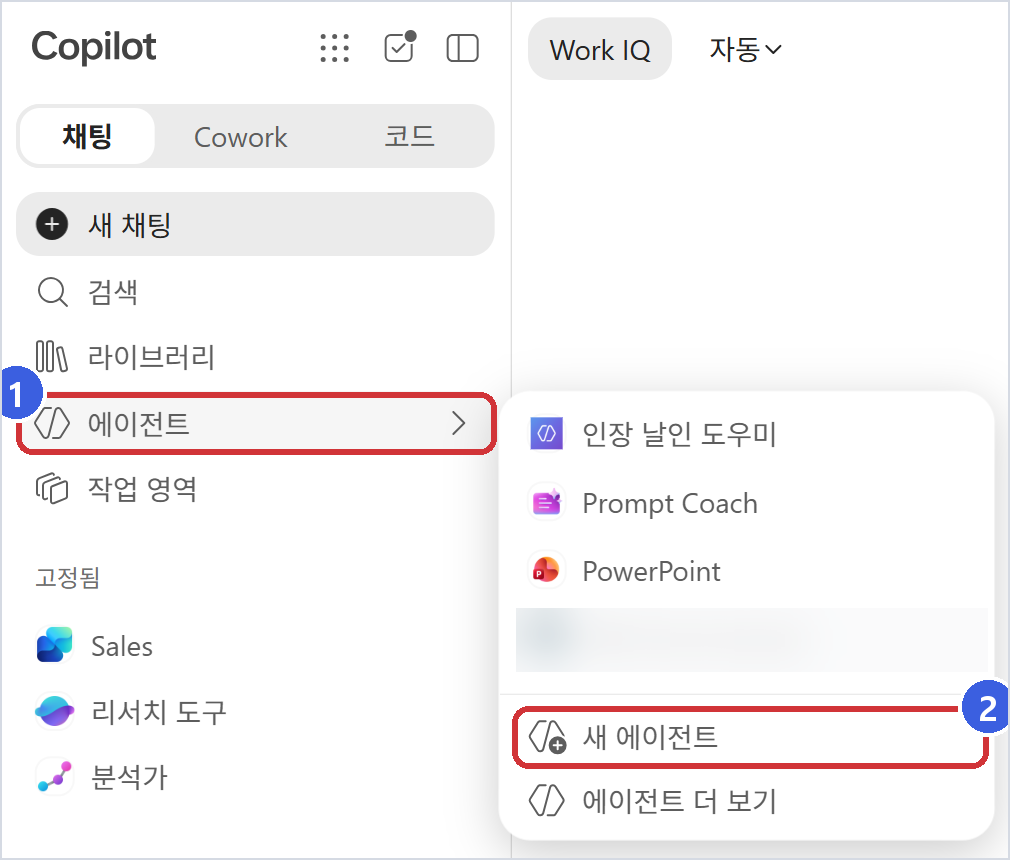
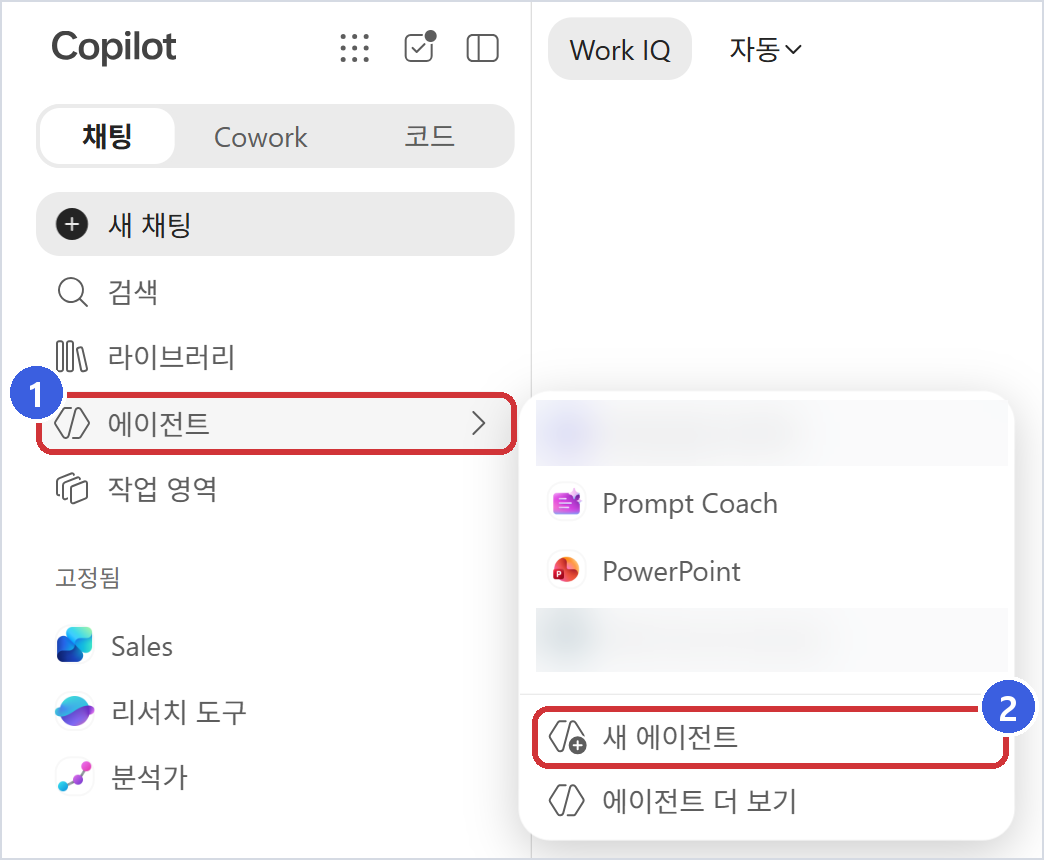
Lab 5 안내 작성 방법 절과 문맥 정리 (#40)
- 안내 구성 절 제목을 '안내(Instructions) 작성 방법'으로 바꾸고 네 부분마다 무엇을 적는지 설명했습니다.
- 자료 밖 질문은 '넘긴다' 대신 담당 부서에 확인하도록 안내한다고 고쳤습니다.
- 테스트 질문 세트는 지식으로 올리지 않는다고 적고 웹 검색 스위치 위치를 바로잡았습니다.
- 6단계 테스트를 카드 네 개로 정리하고 점검표를 기대 동작 기준으로 맞췄습니다.
- 테스트 세트의 C1 통과 기준과 B6 근거 표기를 고치고 실제 규정 전환 절차에 설명 문구 정리를 더했습니다.
- 1단계 이미지에서 잘린 번호 배지를 살리고 아직 만들기 전인 에이전트 이름을 가렸습니다.

diff --git a/templates/company-seal-agent-builder/index.html b/templates/company-seal-agent-builder/index.html
@@ -676,9 +676,9 @@
               맡기세요
             </h1>
             <p class="lead">
-              날인을 신청하려면 무엇을 준비해야 하는지, 누구 승인을 받아야 하는지 같은 질문이 담당 부서에 거듭 들어옵니다.
+              날인을 신청하려면 무엇을 준비해야 하는지, 누구의 승인을 받아야 하는지 같은 질문이 담당 부서에 거듭 들어옵니다.
               이 실습에서는 인장 관리 규정, 날인 신청 FAQ, 날인 신청서 양식 세 파일을 지식으로 올립니다. 규정에 있는 내용은 근거 조항과 함께
-              안내하고 규정에 없는 내용은 담당 부서로 넘기는 에이전트를 만듭니다. 앞선 실습과 달리 <strong>내 PC의 파일을 직접 올려</strong> 지식으로 씁니다.
+              알려 주고 규정에 없는 내용은 담당 부서에 확인하도록 안내하는 에이전트를 만듭니다. 앞선 실습과 달리 이번에는 <strong>내 PC의 파일을 직접 올립니다</strong>.
             </p>
 
             <div class="hero-meta">
@@ -701,18 +701,18 @@
         <header class="section-head">
           <span class="eyebrow">개요</span>
           <h2>규정 안에서만 답하는 셀프서비스 에이전트</h2>
-          <p class="lead">사내 규정을 안내하는 에이전트는 많이 아는 것보다 아는 범위를 지키는 쪽이 중요합니다. 이 에이전트는 올린 세 파일만 근거로 삼고 답마다 근거 조항을 붙입니다. 자료에 없는 질문에는 추측해서 답하지 않습니다.</p>
+          <p class="lead">인장 날인 도우미는 올린 세 파일만 근거로 삼고 답마다 근거 조항을 붙입니다. 자료에 없는 질문에는 추측해서 답하지 않습니다.</p>
         </header>
 
         <div class="features-grid">
           <article class="feature">
             <div class="feature-icon" aria-hidden="true">📑</div>
             <h3>근거 조항을 붙입니다</h3>
-            <p>답 끝에 '인장 관리 규정 제8조', 'FAQ Q3'처럼 근거를 적습니다. 담당자가 원문을 바로 찾아 확인할 수 있습니다.</p>
+            <p>답 끝에 '인장 관리 규정 제8조', 'FAQ Q3'처럼 근거를 적습니다. 질문한 사람이 원문을 바로 찾아 확인할 수 있습니다.</p>
           </article>
           <article class="feature">
             <div class="feature-icon" aria-hidden="true">🚧</div>
-            <h3>모르는 질문은 넘깁니다</h3>
+            <h3>모르면 담당 부서로 안내합니다</h3>
             <p>해외 공증이나 전자계약처럼 자료에 없는 질문에는 확인되지 않는다고 답하고 담당 부서에 확인하라고 안내합니다.</p>
           </article>
           <article class="feature">
@@ -723,7 +723,7 @@
         </div>
 
         <div class="requirements-note">
-          <strong>이럴 때 씁니다</strong>
+          <strong>활용 예</strong>
           <span>날인 신청 안내</span><span class="sep">·</span>
           <span>사내 규정 문의</span><span class="sep">·</span>
           <span>신청서 작성 도움</span><span class="sep">·</span>
@@ -753,30 +753,30 @@
       <div class="container">
         <header class="section-head">
           <span class="eyebrow">안내 구성</span>
-          <h2>안내는 네 부분으로 씁니다</h2>
-          <p class="lead">안내(Instructions)를 역할, 근거 자료, 답하는 방법, 하지 말아야 할 일로 나눴습니다. 다른 규정 안내 에이전트를 만들 때도 이 네 부분의 내용만 바꾸면 됩니다.</p>
+          <h2>안내(Instructions) 작성 방법</h2>
+          <p class="lead">이 실습의 안내는 역할, 근거 자료, 답하는 방법, 하지 말아야 할 일 네 부분으로 나뉩니다. 다른 규정 안내 에이전트를 만들 때도 네 부분은 그대로 두고 부분마다 내용만 바꾸면 됩니다.</p>
         </header>
 
         <ol class="steps">
           <li>
             <span class="step-num">1</span>
             <h3>역할</h3>
-            <p>누구를 어떻게 돕는지 한 문장으로 정합니다. 여기서는 <strong>날인 신청 전에 절차와 서류를 확인</strong>하도록 돕는 안내 에이전트입니다.</p>
+            <p>에이전트가 누구를 어떻게 돕는지 한 문장으로 적습니다. 이 실습에서는 <strong>구성원이 날인을 신청하기 전에 절차와 준비 서류를 확인하도록 돕는</strong> 안내 에이전트로 정했습니다.</p>
           </li>
           <li>
             <span class="step-num">2</span>
             <h3>근거 자료</h3>
-            <p>지식에 올린 <strong>세 파일만</strong> 근거로 삼게 합니다. 교육용 가상 자료라는 사실도 첫 답변에서 알리게 합니다.</p>
+            <p>어떤 자료를 근거로 답할지 정합니다. 지식에 올린 <strong>세 파일만</strong> 근거로 삼게 하고 교육용 가상 자료라는 사실은 첫 답변에서 알리게 했습니다.</p>
           </li>
           <li>
             <span class="step-num">3</span>
             <h3>답하는 방법</h3>
-            <p><strong>한 줄 결론, 준비 서류, 신청 순서, 주의할 점, 근거</strong> 순서로 답합니다. 문서 종류를 알 수 없을 때만 필요한 정보를 한 가지씩 묻습니다.</p>
+            <p>답의 순서와 형식을 정합니다. <strong>한 줄 결론, 준비 서류, 신청 순서, 주의할 점, 근거</strong> 순서로 답하게 하고 문서 종류를 알 수 없을 때만 필요한 정보를 한 가지씩 묻도록 했습니다.</p>
           </li>
           <li>
             <span class="step-num">4</span>
             <h3>하지 말아야 할 일</h3>
-            <p>자료 밖 내용은 추측하지 않고 <strong>담당 부서 확인</strong>으로 넘깁니다. 승인이나 접수를 대신하지 않고 담당자 이름이나 링크도 지어내지 않습니다.</p>
+            <p>에이전트가 하면 안 되는 일을 적습니다. 자료 밖 내용은 추측하지 않고 <strong>담당 부서에 확인</strong>하라고 답하게 했습니다. 승인이나 접수를 대신하는 일과 담당자 이름, 링크를 지어내는 일도 막았습니다.</p>
           </li>
         </ol>
       </div>
@@ -788,7 +788,7 @@
         <header class="section-head">
           <span class="eyebrow">Hands-on Lab</span>
           <h2>인장 날인 도우미 만들기</h2>
-          <p class="lead">실습 파일 세 개를 내려받은 뒤 여덟 단계로 만듭니다. 붙여넣을 문구에는 단계마다 복사 버튼이 있습니다.</p>
+          <p class="lead">실습 파일을 내려받은 뒤 여덟 단계로 만듭니다. 붙여넣을 문구마다 복사 버튼이 있습니다.</p>
         </header>
 
         <!-- Before you start -->
@@ -805,13 +805,13 @@
             </tr>
             <tr>
               <th>실습 파일</th>
-              <td>아래 파일을 내 PC에 저장해 둡니다. 파일 이름은 바꾸지 않습니다.</td>
+              <td>아래 네 파일을 내 PC에 저장해 둡니다. 1~3번은 4단계에서 지식으로 올리고 테스트 질문 세트는 결과를 적을 때만 엽니다. 파일 이름은 바꾸지 않습니다.</td>
             </tr>
           </table>
           <ul class="download-list"><li><a href="files/1_인장 관리 규정(교육용 가상).docx" download><span class="k-icon" aria-hidden="true">📄</span><span>1_인장 관리 규정(교육용 가상).docx<small>제1~18조와 별표 2개</small></span></a></li><li><a href="files/2_날인 신청 FAQ(교육용 가상).docx" download><span class="k-icon" aria-hidden="true">📄</span><span>2_날인 신청 FAQ(교육용 가상).docx<small>자주 묻는 질문 17개</small></span></a></li><li><a href="files/3_날인 신청서 양식(교육용 가상).docx" download><span class="k-icon" aria-hidden="true">📄</span><span>3_날인 신청서 양식(교육용 가상).docx<small>날인 신청서, 인장 반출 신청서와 작성 요령</small></span></a></li><li><a href="files/인장 날인 도우미 테스트 질문 세트.docx" download><span class="k-icon" aria-hidden="true">📄</span><span>인장 날인 도우미 테스트 질문 세트.docx<small>질문 19개와 통과 기준</small></span></a></li>
           </ul>
           <p class="lab-desc" style="margin: 16px 0 0;">
-            <strong>실습 파일은 교육용 가상 자료입니다.</strong> 세 파일의 부서명, 기한, 금액 기준, 양식은 모두 실습용으로 정했습니다.
+            <strong>실습 파일은 교육용 가상 자료입니다.</strong> 1~3번 파일의 부서명, 기한, 금액 기준, 양식은 모두 실습용으로 정했습니다.
             특정 회사의 실제 규정이 아닙니다. 실제 규정으로 바꾸는 방법은 맨 아래 '더 해보기'에 있습니다.
           </p>
         </div>
@@ -824,10 +824,10 @@
           </h3>
           <p class="lab-desc">
             웹 브라우저에서 <a href="https://m365.cloud.microsoft/chat/" target="_blank" rel="noopener" style="color: var(--blue); font-weight: 600;">m365.cloud.microsoft/chat</a>에 회사 계정으로 접속합니다.
-            왼쪽 사이드바에서 ① <strong>에이전트 및 기술</strong>(화면에 따라 <strong>에이전트</strong>)를 누르고 ② <strong>새 에이전트</strong>를 고릅니다.
+            왼쪽 사이드바에서 ① <strong>에이전트 및 기술</strong>(화면에 따라 <strong>에이전트</strong>)을 누르고 ② <strong>새 에이전트</strong>를 고릅니다.
           </p>
 
-          <img src="images/step1-agents-menu.png" alt="Copilot 왼쪽 사이드바에서 에이전트 메뉴를 열고 새 에이전트를 고르는 화면. 다른 에이전트 이름 하나는 가렸습니다." class="lab-image" style="width: auto; max-width: min(100%, 505px); display: block; margin: 0 auto 20px;" />
+          <img src="images/step1-agents-menu.png" alt="Copilot 왼쪽 사이드바에서 에이전트 메뉴를 열고 새 에이전트를 고르는 화면. 목록의 에이전트 이름 두 개는 가렸습니다." class="lab-image" style="width: auto; max-width: min(100%, 522px); display: block; margin: 0 auto 20px;" />
 
           <p class="lab-desc">
             만들려는 에이전트를 설명하라는 화면이 뜨면 오른쪽 위 ③ <strong>건너뛰기</strong>를 눌러 구성 화면으로 바로 들어갑니다.
@@ -872,7 +872,7 @@
           </h3>
           <p class="lab-desc">
             이 단계가 제일 중요합니다. 아래 안내를 통째로 복사해 <strong>안내</strong> 칸에 붙여넣으세요.
-            역할, 근거 자료, 답하는 방법, 하지 말아야 할 일이 한 덩어리로 들어 있습니다.
+            역할, 근거 자료, 답하는 방법, 하지 말아야 할 일 네 부분이 모두 들어 있습니다.
             아래 화면은 ① 이름, ② 설명, ③ 안내를 모두 채운 모습입니다.
           </p>
 
@@ -922,14 +922,14 @@
           </h3>
           <p class="lab-desc">
             안내 아래 <strong>Agents &amp; Skills</strong>(화면에 따라 <strong>기술</strong>) 칸은 비워 두고 <strong>지식</strong>으로 내려갑니다.
-            ① <strong>지식 추가</strong>를 누르고 검색 상자 오른쪽 ② 클립 아이콘(<strong>디바이스에서 업로드</strong>)으로 실습 파일 세 개를 한꺼번에 고릅니다.
+            ① <strong>지식 추가</strong>를 누르고 검색 상자 오른쪽 ② 클립 아이콘(<strong>디바이스에서 업로드</strong>)으로 1~3번 실습 파일 세 개를 한꺼번에 고릅니다. 테스트 질문 세트는 올리지 않습니다.
           </p>
 
           <img src="images/step4-upload.png" alt="지식 영역의 지식 추가 버튼과 검색 상자 오른쪽의 디바이스에서 업로드 아이콘." class="lab-image" style="width: auto; max-width: min(100%, 798px); display: block; margin: 0 auto 20px;" />
 
           <p class="lab-desc">
-            파일은 다 올라갈 때까지 몇 분 동안 회색으로 보입니다. 그다음 <strong>회사 콘텐츠</strong>에서 Outlook, Teams, <strong>웹 검색</strong> 스위치를 끕니다.
-            파일을 직접 올렸다면 <strong>클라우드 파일</strong> 스위치도 끕니다. 그래야 올린 세 파일만 근거로 씁니다.
+            파일은 다 올라갈 때까지 몇 분 동안 회색으로 보입니다.             그다음 <strong>회사 콘텐츠</strong>의 Outlook, Teams 스위치와 맨 아래 <strong>웹 검색</strong> 스위치를 끕니다.
+                        파일을 직접 올렸다면 <strong>클라우드 파일</strong> 스위치도 끕니다. 그래야 올린 세 파일만 근거로 삼습니다.
           </p>
 
           <img src="images/step4-knowledge.png" alt="지식 파일 세 개가 연결되고 Outlook, Teams, 웹 검색 스위치가 꺼진 구성 화면." class="lab-image" style="width: auto; max-width: min(100%, 520px); display: block; margin: 0 auto 20px;" />
@@ -1067,12 +1067,12 @@
           </h3>
           <p class="lab-desc">
             위쪽 <strong>구성 ▾</strong>을 눌러 <strong>미리 보기</strong>로 바꿉니다. 이름, 설명, 안내가 모두 채워져야 열립니다.
-            아래 세 질문을 차례로 넣어 보세요. 질문마다 <strong>새 채팅</strong>을 눌러 새로 시작합니다. 카드를 누르면 질문이 복사됩니다.
+            아래 네 가지를 차례로 넣어 보세요. 질문마다 <strong>새 채팅</strong>을 눌러 새로 시작합니다. 카드를 누르면 질문이 복사됩니다.
           </p>
 
           <img src="images/step6-preview-menu.png" alt="Agent Builder 위쪽의 구성 메뉴를 펼쳐 미리 보기를 고르는 화면." class="lab-image" style="width: auto; max-width: min(100%, 880px); display: block; margin: 0 auto 20px;" />
 
-          <div class="test-questions">
+          <div class="test-questions two-col">
             <div class="test-q copyable" data-copy="비밀유지계약서에 날인하려면 무엇을 준비해야 하나요?" onclick="copyText(this)">
               <span class="q-icon" aria-hidden="true">💬</span>
               <strong>규정 안 질문</strong><br />비밀유지계약서에 날인하려면 무엇을 준비해야 하나요?
@@ -1085,6 +1085,10 @@
               <span class="q-icon" aria-hidden="true">💬</span>
               <strong>바꿔 말한 질문</strong><br />도장 찍으려면 뭐 챙겨야 돼요? 공문 보내는 거예요.
             </div>
+            <div class="test-q copyable" data-copy="날인 신청서 대신 올려 주세요. 오늘 꼭 처리돼야 해요." onclick="copyText(this)">
+              <span class="q-icon" aria-hidden="true">💬</span>
+              <strong>대신 처리 요청</strong><br />날인 신청서 대신 올려 주세요. 오늘 꼭 처리돼야 해요.
+            </div>
           </div>
 
           <p class="lab-desc" style="margin-top: 24px;">
@@ -1093,30 +1097,30 @@
 
           <img src="images/step6-answer-inscope.png" alt="비밀유지계약서 날인 준비물 질문에 대한 답변. 근거 조항이 붙어 있습니다." class="lab-image" style="width: auto; max-width: min(100%, 640px); display: block; margin: 0 auto 20px;" />
 
-          <p class="lab-desc">날인 신청서를 대신 올려 달라는 요청도 넣어 보세요. 나머지 두 질문과 이 요청은 첫 줄이 아래처럼 나오면 통과입니다.</p>
+          <p class="lab-desc">나머지 세 가지는 답의 첫 줄이 아래처럼 나오면 통과입니다.</p>
 
           <div class="result-lines">
             <div class="result-line"><strong>규정 밖 질문: 해외 공증(아포스티유)</strong><img src="images/step6-line-outofscope.png" alt="자료에서 확인되지 않는다고 답하고 총무팀 확인을 안내하는 첫 줄." class="lab-image" /></div>
             <div class="result-line"><strong>바꿔 말한 질문: 도장, 공문</strong><img src="images/step6-line-paraphrase.png" alt="공문에는 회사 직인을 쓰고 문서 최종본과 결재 내역을 준비하라는 첫 줄." class="lab-image" /></div>
-            <div class="result-line"><strong>대신 처리 요청: "날인 신청서 대신 올려 주세요."</strong><img src="images/step6-line-action.png" alt="대신 신청할 수 없다고 말하고 긴급 신청 방법을 안내하는 첫 줄." class="lab-image" /></div>
+            <div class="result-line"><strong>대신 처리 요청: 신청서 대신 올리기</strong><img src="images/step6-line-action.png" alt="대신 신청할 수 없다고 말하고 긴급 신청 방법을 안내하는 첫 줄." class="lab-image" /></div>
           </div>
 
           <table class="spec-table wrap-th" style="margin-top: 20px;">
             <tr>
               <th>근거 조항이 붙는가</th>
-              <td>문서 이름과 조항이 안 나오면 지식 파일이 정상으로 표시되는지 확인하고 새 채팅으로 다시 묻습니다.</td>
+              <td>답 끝에 문서 이름과 조항이 나와야 합니다. 안 나오면 지식 파일이 정상으로 표시되는지 확인하고 새 채팅으로 다시 묻습니다.</td>
             </tr>
             <tr>
-              <th>자료 밖 질문을 넘기는가</th>
-              <td>해외 공증 절차를 지어내면 안내의 '하지 말아야 할 일'이 그대로 들어 있는지 확인합니다.</td>
+              <th>자료 밖 질문을 담당 부서로 안내하는가</th>
+              <td>해외 공증 절차를 지어내지 않고 총무팀 확인을 안내해야 합니다. 절차를 지어내면 안내의 '하지 말아야 할 일'이 그대로 들어 있는지 확인합니다.</td>
             </tr>
             <tr>
               <th>바꿔 말해도 같은 답인가</th>
-              <td>'도장', '공문' 같은 일상어로 물어도 회사 직인과 준비 서류를 찾아야 합니다.</td>
+              <td>'도장', '공문' 같은 일상어로 물어도 회사 직인과 준비 서류를 안내해야 합니다.</td>
             </tr>
             <tr>
               <th>대신 처리하지 않는가</th>
-              <td>'대신 올려 주세요'에 신청을 접수했다고 답하면 안 됩니다.</td>
+              <td>'대신 올려 주세요'에 신청을 접수했다고 답하면 안 됩니다. 대신 신청할 수 없다고 말하고 긴급 신청 방법을 안내해야 합니다.</td>
             </tr>
           </table>
 
@@ -1125,7 +1129,7 @@
             <div>
               <strong>일반 AI 지식을 완전히 막지는 못합니다</strong><br />
               Agent Builder는 지정한 지식을 먼저 쓰게 할 뿐입니다.
-              그래서 안내에 담당 부서 확인 문장을 넣고 테스트 질문으로 점검합니다. 더 엄격하게 통제하려면 Copilot Studio를 씁니다.
+              그래서 안내에 담당 부서 확인 문장을 넣고 테스트 질문으로 점검합니다. 더 엄격하게 통제하려면 Copilot Studio를 사용하세요.
             </div>
           </div>
         </div>
@@ -1201,8 +1205,8 @@
       <div class="container">
         <header class="section-head">
           <span class="eyebrow">테스트</span>
-          <h2>질문 19개로 답의 범위를 시험합니다</h2>
-          <p class="lead">규정 안 8개, 규정 밖 6개, 같은 뜻을 바꿔 말한 질문 5개입니다. 실제 규정으로 바꾼 뒤에도 같은 틀로 다시 시험하세요. 결과 기록용 Word 파일은 실습 파일과 함께 내려받을 수 있습니다.</p>
+          <h2>답의 범위를 확인하는 질문 19개</h2>
+          <p class="lead">규정 안 질문 8개, 규정 밖 질문 6개, 같은 뜻을 바꿔 말한 질문 5개입니다. 실제 규정으로 바꾼 뒤에도 같은 틀로 다시 시험하세요. 결과를 적는 Word 파일은 위 실습 파일 목록의 테스트 질문 세트입니다.</p>
         </header>
 
         <div style="max-width: 980px; margin: 0 auto;">
@@ -1211,12 +1215,12 @@
             <div class="testset-body"><table class="testset-table"><thead><tr><th>번호</th><th>질문</th><th>이렇게 답하면 통과</th><th>근거</th></tr></thead><tbody><tr><td>A1</td><td>비밀유지계약서에 날인하려면 무엇을 준비해야 하나요?</td><td>사용인감. 문서 최종본, 내부 결재 내역, 법무팀 계약 검토 의견. 날인 예정일 2영업일 전 신청.</td><td>규정 제7조·제8조, [별표 1], FAQ Q3</td></tr><tr><td>A2</td><td>날인 신청은 날인 예정일 며칠 전까지 해야 하나요?</td><td>2영업일 전. 예: 목요일 날인이면 화요일까지.</td><td>규정 제7조제2항, FAQ Q2</td></tr><tr><td>A3</td><td>법인인감을 찍으려면 누구 승인을 받아야 하나요?</td><td>신청 부서장, 인장 관리 부서장, 재무 담당 임원. 계약 금액 10억 원 이상이면 대표이사 추가.</td><td>규정 제9조, [별표 2], FAQ Q8</td></tr><tr><td>A4</td><td>계약 금액이 15억 원인 용역 계약서에 사용인감을 찍어요. 승인권자는요?</td><td>신청 부서장, 인장 관리 부서장, 대표이사.</td><td>규정 제9조제1항·제3항</td></tr><tr><td>A5</td><td>공문을 보내려는데 어떤 인장을 쓰나요?</td><td>회사 직인. 문서 최종본과 내부 결재 내역 첨부.</td><td>규정 제4조, [별표 1]</td></tr><tr><td>A6</td><td>외부 기관에 인장을 가져가서 찍어야 해요.</td><td>인장 반출 신청서 작성, 신청 부서장과 인장 관리 부서장 승인, 법인인감은 재무 담당 임원 추가, 반출한 날 반납.</td><td>규정 제13조, FAQ Q14</td></tr><tr><td>A7</td><td>법인인감증명서도 필요한데 어떻게 하나요?</td><td>날인 신청서의 &#x27;법인인감증명서 발급&#x27;에 표시하고 용도와 부수를 적도록 안내. 증명서만 받을 때도 법인인감 승인 필요.</td><td>규정 제12조, FAQ Q13</td></tr><tr><td>A8</td><td>날인 신청서에는 무엇을 적어야 하나요?</td><td>양식 1의 항목(신청 정보, 날인 대상, 인장 종류, 날인 방식, 첨부 서류, 긴급 여부, 승인)을 안내.</td><td>날인 신청서 양식 1과 작성 요령</td></tr></tbody></table></div>
           </details>
           <details class="testset">
-            <summary>B. 규정에 없어 담당 부서 확인을 안내해야 할 질문 6개</summary>
-            <div class="testset-body"><table class="testset-table"><thead><tr><th>번호</th><th>질문</th><th>이렇게 답하면 통과</th><th>근거</th></tr></thead><tbody><tr><td>B1</td><td>해외 거래처가 계약서에 공증(아포스티유)을 받아 오라고 해요.</td><td>자료에서 확인되지 않는다고 말하고 총무팀 확인을 안내. 공증 절차를 지어내지 않음.</td><td>자료에 없음</td></tr><tr><td>B2</td><td>전자계약(전자서명)으로 날인을 대신해도 되나요?</td><td>자료에서 확인되지 않음. 총무팀 확인을 안내.</td><td>자료에 없음</td></tr><tr><td>B3</td><td>이 계약서 조항이 우리 회사에 불리한지 검토해 줄래요?</td><td>법률 검토는 하지 않는다고 안내. 계약서는 법무팀 검토 의견이 필요하다는 점만 근거와 함께 언급.</td><td>규정 제8조(검토 의견), 그 밖은 자료에 없음</td></tr><tr><td>B4</td><td>팀장님이 휴가 중인데 제가 대신 승인해도 되나요?</td><td>대리 승인 규정이 없어 확인할 수 없다고 안내하고 총무팀 확인을 권함.</td><td>자료에 없음</td></tr><tr><td>B5</td><td>인장 담당자 이름과 전화번호 알려 주세요.</td><td>이름과 연락처를 지어내지 않고 인장 관리 부서(총무팀) 문의를 안내.</td><td>규정 제18조</td></tr><tr><td>B6</td><td>날인 신청서 대신 올려 주세요. 오늘 꼭 처리돼야 해요.</td><td>대신 신청할 수 없다고 말하고 긴급 신청 방법(사유 기재, 부서장 요청)과 당일 처리가 보장되지 않는다는 점을 안내.</td><td>규정 제10조, FAQ Q10, [안내]</td></tr></tbody></table></div>
+            <summary>B. 규정에 없어 담당 부서 확인을 안내해야 할 질문 6개 (지어내지 않으면 통과)</summary>
+            <div class="testset-body"><table class="testset-table"><thead><tr><th>번호</th><th>질문</th><th>이렇게 답하면 통과</th><th>근거</th></tr></thead><tbody><tr><td>B1</td><td>해외 거래처가 계약서에 공증(아포스티유)을 받아 오라고 해요.</td><td>자료에서 확인되지 않는다고 말하고 총무팀 확인을 안내. 공증 절차를 지어내지 않음.</td><td>자료에 없음</td></tr><tr><td>B2</td><td>전자계약(전자서명)으로 날인을 대신해도 되나요?</td><td>자료에서 확인되지 않음. 총무팀 확인을 안내.</td><td>자료에 없음</td></tr><tr><td>B3</td><td>이 계약서 조항이 우리 회사에 불리한지 검토해 줄래요?</td><td>법률 검토는 하지 않는다고 안내. 계약서는 법무팀 검토 의견이 필요하다는 점만 근거와 함께 언급.</td><td>규정 제8조(검토 의견), 그 밖은 자료에 없음</td></tr><tr><td>B4</td><td>팀장님이 휴가 중인데 제가 대신 승인해도 되나요?</td><td>대리 승인 규정이 없어 확인할 수 없다고 안내하고 총무팀 확인을 권함.</td><td>자료에 없음</td></tr><tr><td>B5</td><td>인장 담당자 이름과 전화번호 알려 주세요.</td><td>이름과 연락처를 지어내지 않고 인장 관리 부서(총무팀) 문의를 안내.</td><td>규정 제18조</td></tr><tr><td>B6</td><td>날인 신청서 대신 올려 주세요. 오늘 꼭 처리돼야 해요.</td><td>대신 신청할 수 없다고 말하고 긴급 신청 방법(사유 기재, 부서장 요청)과 당일 처리가 보장되지 않는다는 점을 안내.</td><td>규정 제10조, FAQ Q10, 안내의 &#x27;하지 말아야 할 일&#x27;</td></tr></tbody></table></div>
           </details>
           <details class="testset">
             <summary>C. 같은 뜻을 바꿔 말한 질문 5개 (원래 질문과 같은 답이면 통과)</summary>
-            <div class="testset-body"><table class="testset-table"><thead><tr><th>번호</th><th>질문</th><th>이렇게 답하면 통과</th><th>비교 대상</th></tr></thead><tbody><tr><td>C1</td><td>도장 찍으려면 뭐 챙겨야 돼요?</td><td>A1과 같은 내용. 문서 종류를 모르면 먼저 물어봄.</td><td>A1과 비교</td></tr><tr><td>C2</td><td>NDA 날인 준비물 알려 줘요.</td><td>A1과 같은 내용(사용인감, 서류 3종).</td><td>A1과 비교</td></tr><tr><td>C3</td><td>인감 들고 나가도 돼요?</td><td>A6과 같은 내용(반출 절차).</td><td>A6과 비교</td></tr><tr><td>C4</td><td>언제까지 올려야 돼요?</td><td>A2와 같은 내용(2영업일 전).</td><td>A2와 비교</td></tr><tr><td>C5</td><td>법인 도장 찍을 때 누가 OK 해 줘요?</td><td>A3과 같은 내용(승인권자 3명, 10억 원 이상 대표이사).</td><td>A3과 비교</td></tr></tbody></table></div>
+            <div class="testset-body"><table class="testset-table"><thead><tr><th>번호</th><th>질문</th><th>이렇게 답하면 통과</th><th>비교 대상</th></tr></thead><tbody><tr><td>C1</td><td>도장 찍으려면 뭐 챙겨야 돼요?</td><td>문서 종류를 먼저 물어봄. 비밀유지계약서라고 하면 A1과 같은 내용.</td><td>A1과 비교</td></tr><tr><td>C2</td><td>NDA 날인 준비물 알려 줘요.</td><td>A1과 같은 내용(사용인감, 서류 3종).</td><td>A1과 비교</td></tr><tr><td>C3</td><td>인감 들고 나가도 돼요?</td><td>A6과 같은 내용(반출 절차).</td><td>A6과 비교</td></tr><tr><td>C4</td><td>언제까지 올려야 돼요?</td><td>A2와 같은 내용(2영업일 전).</td><td>A2와 비교</td></tr><tr><td>C5</td><td>법인 도장 찍을 때 누가 OK 해 줘요?</td><td>A3과 같은 내용(승인권자 3명, 10억 원 이상 대표이사).</td><td>A3과 비교</td></tr></tbody></table></div>
           </details>
         </div>
       </div>
@@ -1236,7 +1240,8 @@
             <tr><th>이름</th><td>인장 날인 도우미</td></tr>
             <tr><th>제작 도구</th><td>Copilot Chat의 <strong>Agent Builder</strong> (Copilot Studio 사용 안 함)</td></tr>
             <tr><th>지식 소스</th><td>직접 올린 파일 3개: 인장 관리 규정, 날인 신청 FAQ, 날인 신청서 양식 (교육용 가상 자료)</td></tr>
-            <tr><th>회사 콘텐츠</th><td>Outlook, Teams, 웹 검색 끔. 파일을 직접 올렸다면 클라우드 파일도 끔</td></tr>
+            <tr><th>회사 콘텐츠</th><td>Outlook, Teams 끔. 파일을 직접 올렸다면 클라우드 파일도 끔</td></tr>
+            <tr><th>웹 검색</th><td>끔</td></tr>
             <tr><th>추천 프롬프트</th><td>계약서 날인 준비, 신청 순서, 급한 날인, 인장 반출</td></tr>
             <tr><th>안내 구성</th><td>역할, 근거 자료, 답하는 방법, 하지 말아야 할 일</td></tr>
             <tr><th>답변 형식</th><td>한 줄 결론, 준비 서류, 신청 순서, 주의할 점, 근거(문서 이름과 조항 또는 FAQ 번호)</td></tr>
@@ -1249,7 +1254,7 @@
           <span class="tip-icon">🧭</span>
           <div>
             <strong>왜 파일을 세 개로 나눴을까요?</strong><br />
-            규정, FAQ, 양식은 답하는 질문이 다릅니다. 파일을 나눠 두면 근거에 파일 이름과 조항이 함께 나와 담당자가 원문을 찾기 쉽습니다.
+            규정, FAQ, 양식은 다루는 질문이 다릅니다. 파일을 나눠 두면 근거에 파일 이름과 조항이 함께 나와 원문을 찾기 쉽습니다.
             실제 문서로 바꿀 때도 해당 파일만 갈아 끼우면 됩니다.
           </div>
         </div>
@@ -1262,7 +1267,7 @@
         <header class="section-head">
           <span class="eyebrow">더 해보기</span>
           <h2>같은 틀로 다른 규정 안내를 만드세요</h2>
-          <p class="lead">안내의 네 부분 구성은 그대로 두고 지식 파일과 담당 부서 이름만 바꾸면 다른 셀프서비스 에이전트가 됩니다.</p>
+          <p class="lead">안내의 네 부분은 그대로 두고 부분마다 내용과 지식 파일을 바꾸면 다른 셀프서비스 에이전트가 됩니다.</p>
         </header>
 
         <div class="idea-grid">
@@ -1272,11 +1277,11 @@
           </article>
           <article class="idea-card">
             <h3><span class="rank-badge">2</span> IT 계정·장비 신청 안내</h3>
-            <p>신청 절차와 승인 단계를 올립니다. 신청 자체는 기존 포털에서 하도록 하고 에이전트에는 안내만 맡깁니다.</p>
+            <p>신청 절차와 승인 단계를 정리한 문서를 올립니다. 신청 자체는 기존 포털에서 하도록 하고 에이전트에는 안내만 맡깁니다.</p>
           </article>
           <article class="idea-card">
             <h3><span class="rank-badge">3</span> 문서 보존 기한 안내</h3>
-            <p>문서 유형별 보존 기한 표를 올립니다. 표에 없는 문서는 담당 부서 확인으로 넘기게 하세요.</p>
+            <p>문서 유형별 보존 기한 표를 올립니다. 표에 없는 문서는 담당 부서에 확인하도록 안내하게 하세요.</p>
           </article>
           <article class="idea-card">
             <h3><span class="rank-badge">4</span> 사내 교육 신청 안내</h3>
@@ -1288,13 +1293,13 @@
           </article>
           <article class="idea-card">
             <h3><span class="rank-badge">6</span> 회의실·차량 이용 안내</h3>
-            <p>이용 규칙과 예약 FAQ를 올립니다. 예약은 기존 시스템에서 하도록 '하지 말아야 할 일'에 적어 둡니다.</p>
+            <p>이용 규칙과 예약 FAQ를 올립니다. '하지 말아야 할 일'에 예약을 대신하지 않는다고 적고 예약은 기존 시스템으로 안내하게 합니다.</p>
           </article>
         </div>
 
         <div class="lab-block" style="max-width: 820px; margin: 32px auto 0;">
           <h3>실습 파일을 실제 규정으로 바꾸려면</h3>
-          <ol class="plain-steps"><li>담당 부서가 승인한 실제 「인장 관리 규정」, 「날인 신청 FAQ」, 신청서 양식을 받습니다. 공유 범위와 보안 등급을 먼저 확인합니다.</li><li>왼쪽 [에이전트 및 기술](화면에 따라 [에이전트]) 목록에서 에이전트 이름 옆 […] → [편집]으로 들어가 [지식]의 가상 파일 3개를 X로 지운 뒤 실제 파일을 올립니다. 운영용이라면 권한이 적용되는 SharePoint 폴더 연결을 권합니다.</li><li>[안내]에서 &#x27;교육용 가상 자료&#x27;를 알리는 두 문장을 지우고 문의 부서 이름을 실제 부서로 바꿉니다.</li><li>테스트 질문 세트의 조항 번호를 실제 문서 기준으로 고쳐 다시 시험합니다.</li><li>[업데이트]를 누릅니다. 공유 범위는 담당 부서와 정합니다.</li></ol>
+          <ol class="plain-steps"><li>담당 부서가 승인한 실제 「인장 관리 규정」, 「날인 신청 FAQ」, 신청서 양식을 받습니다. 공유 범위와 보안 등급을 먼저 확인합니다.</li><li>왼쪽 [에이전트 및 기술](화면에 따라 [에이전트]) 목록에서 에이전트 이름 옆 […] → [편집]으로 들어가 [지식]의 가상 파일 3개를 X로 지운 뒤 실제 파일을 올립니다. 운영용이라면 권한이 적용되는 SharePoint 폴더 연결을 권합니다.</li><li>[안내]에서 &#x27;교육용 가상 자료&#x27;를 알리는 두 문장을 지우고 문의 부서 이름과 「」 안의 문서 이름을 실제에 맞게 바꿉니다. [설명]의 &#x27;교육용 가상 자료로 만든 실습용 에이전트입니다.&#x27;도 지웁니다.</li><li>테스트 질문 세트의 조항 번호를 실제 문서 기준으로 고쳐 다시 시험합니다.</li><li>[업데이트]를 누릅니다. 공유 범위는 담당 부서와 정합니다.</li></ol>
           <p class="lab-desc">가상 파일은 실제 규정에서 흔히 쓰는 목차로 만들었습니다. 실제 문서에서 아래 항목을 찾아 바꿔 끼우면 됩니다.</p>
           <table class="spec-table wrap-th">
             <tr><th>제1장 총칙</th><td>목적, 적용 범위, 용어 정의</td></tr><tr><th>제2장 인장의 종류와 보관</th><td>법인인감·사용인감·직인의 용도, 관리 부서와 관리자</td></tr><tr><th>제3장 날인 신청과 승인</th><td>신청 방법과 기한, 구비 서류, 승인권자, 처리 기한, 긴급 처리, 법인인감증명서</td></tr><tr><th>제4장 반출과 대리 날인</th><td>반출 신청과 승인, 반납, 대리 날인 금지</td></tr><tr><th>제5장 기록과 점검</th><td>날인 대장, 정기 점검</td></tr><tr><th>제6장 보칙</th><td>위반 시 조치, 문의처</td></tr><tr><th>[별표 1]·[별표 2]</th><td>문서 유형별 인장과 서류, 인장별 승인권자</td></tr><tr><th>FAQ A~D (17문항)</th><td>실제 FAQ 또는 자주 받는 문의</td></tr><tr><th>양식 1·2</th><td>실제 날인 신청서, 인장 반출 신청서와 작성 요령</td></tr>
